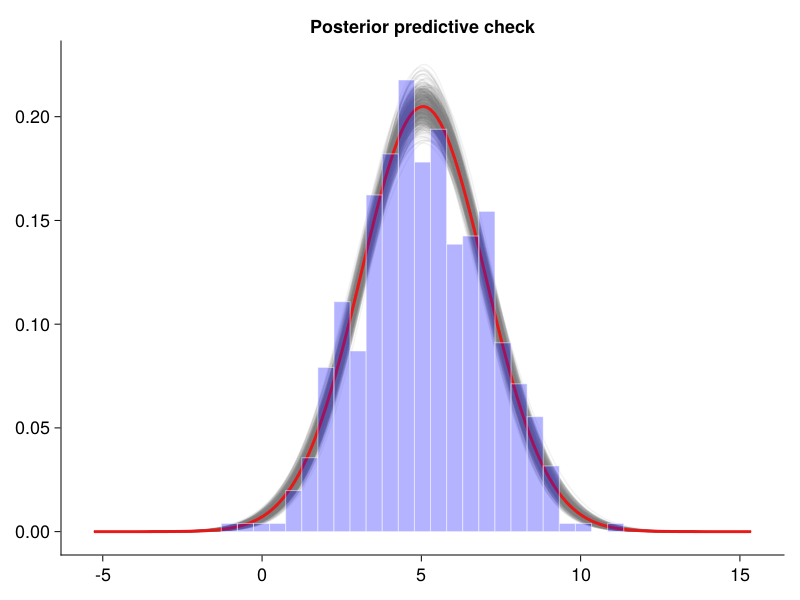
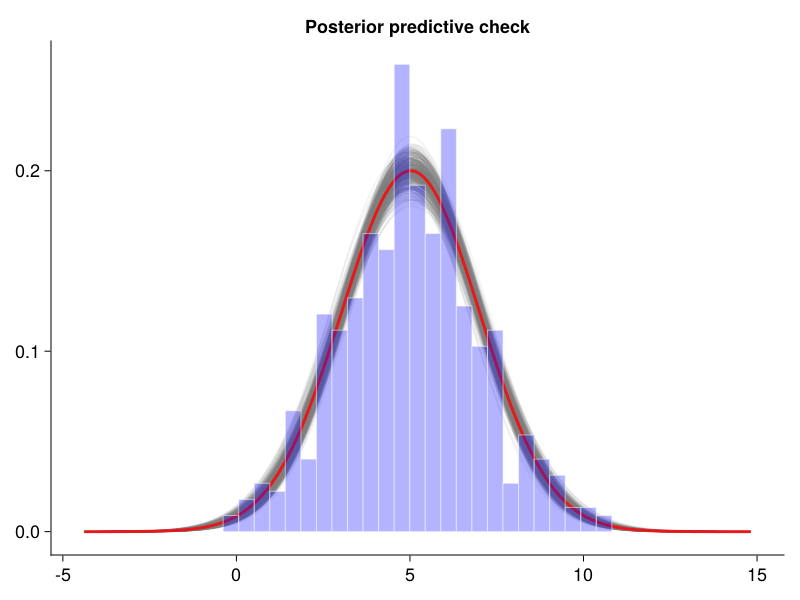
add more samples

diff --git a/random_walk_metropolis.md b/random_walk_metropolis.md
@@ -57,7 +57,7 @@ let
         return p
     end
 
-    nsamples = 5000
+    nsamples = 20_000
     nchains = 6
     nparameter = 2
     accepted_θ = zeros(nchains, nparameter, nsamples)
@@ -181,11 +181,11 @@ end
 ````
 
 ````
-median(y) = 5.047163601850844
-std(y) = 1.9534517221921874
-accepted / nsamples = [0.6048, 0.602, 0.591, 0.6014, 0.6136, 0.6098]
-median_μ = 5.062607764631522
-median_σ = 1.9488129391766038
+median(y) = 4.98024737398589
+std(y) = 2.001295545120521
+accepted / nsamples = [0.61725, 0.6109, 0.6103, 0.6183, 0.6146, 0.61625]
+median_μ = 5.017761637005107
+median_σ = 1.9960339076995193
 
 ````
 
